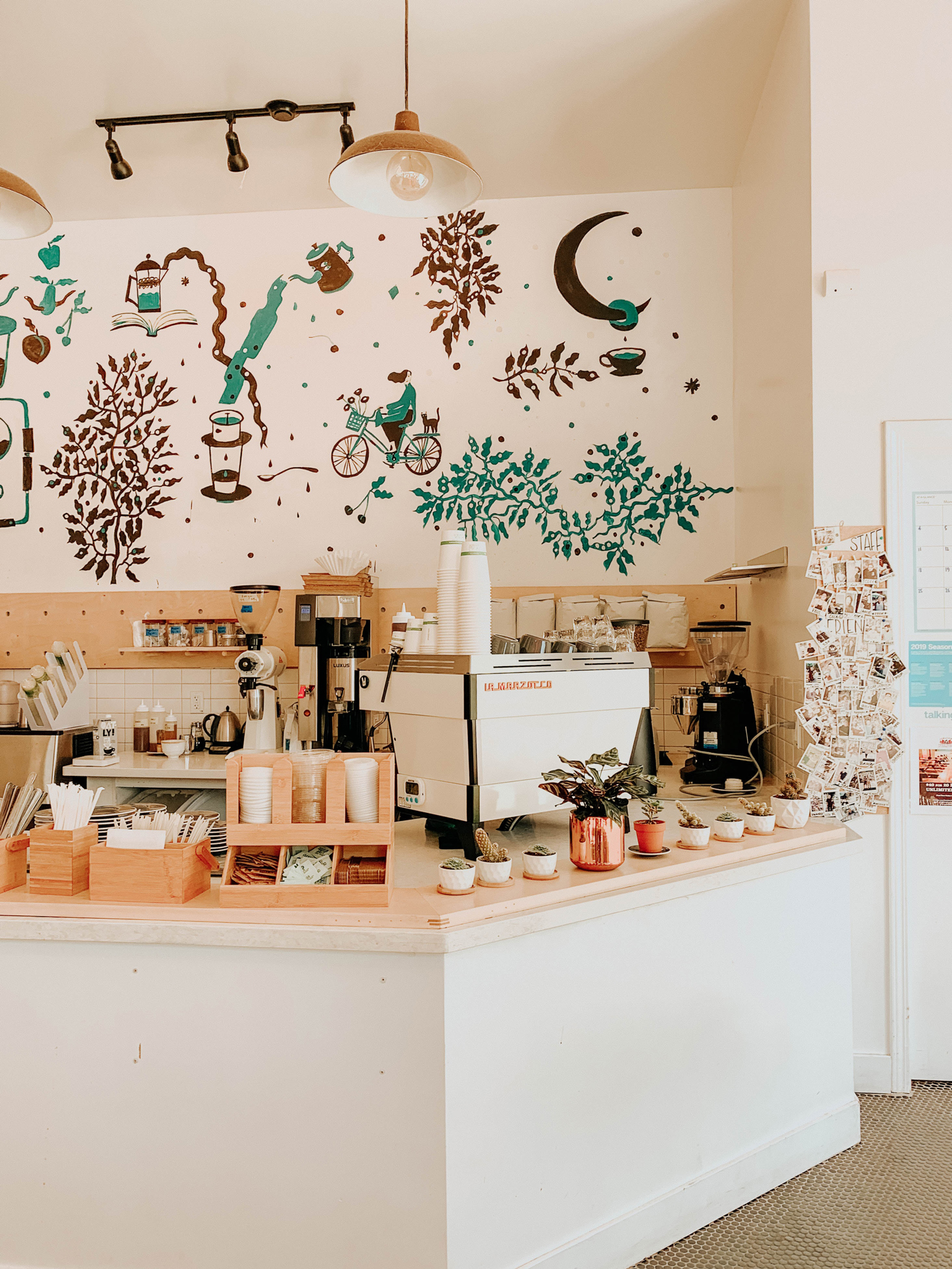
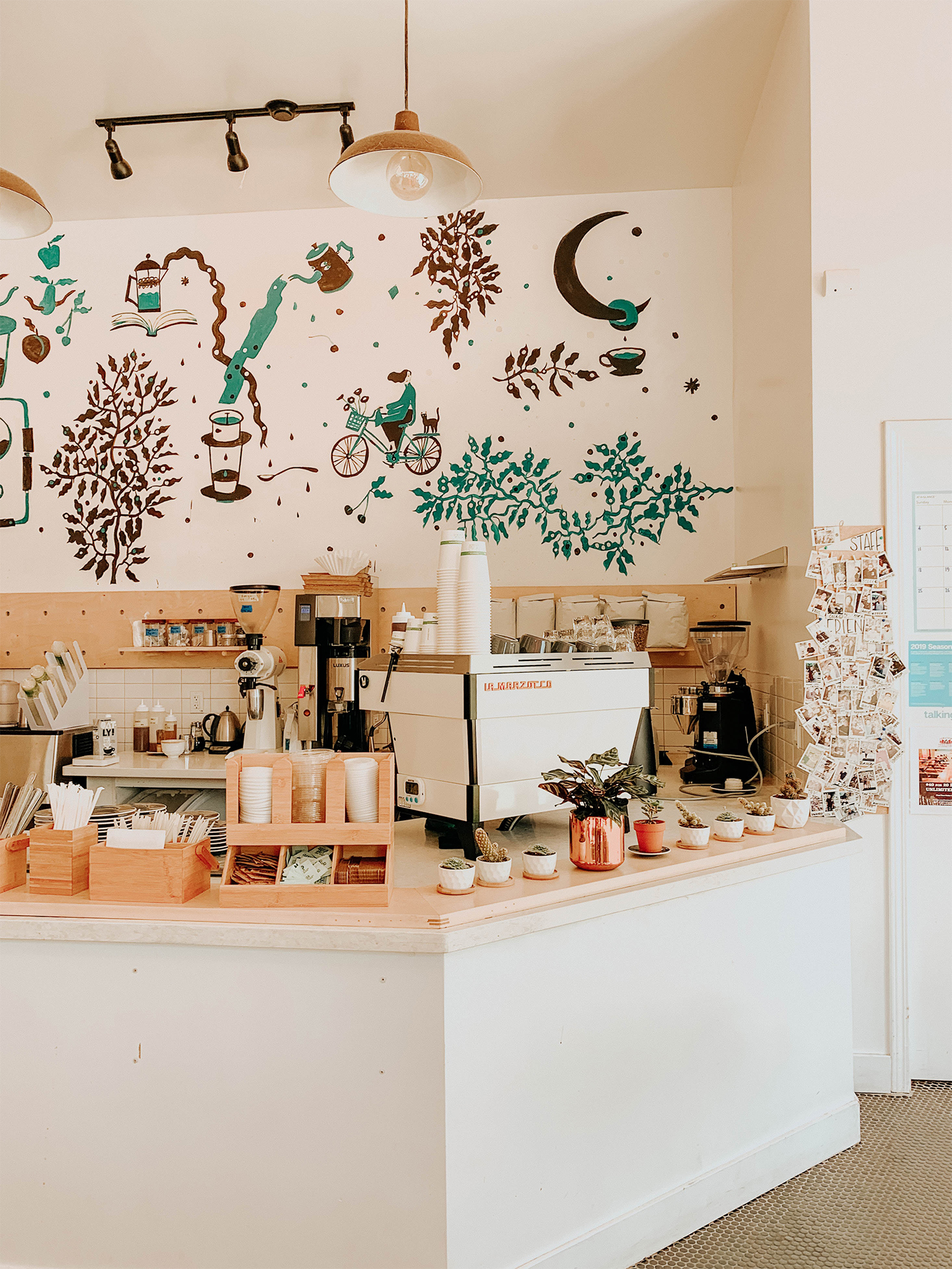
💄 Fix mainVisual file

diff --git a/src/pages/demoCafe.tsx b/src/pages/demoCafe.tsx
@@ -88,7 +88,7 @@ export default function DemoCafe() {
         <section id="mainVisual" ref={areaTopRef}>
           <div className="mx-0 h-[100vh]">
             <img
-              // className="h-[100vh] w-auto object-cover"
+              className="h-[100vh] w-auto object-cover"
               src="/DemoSite/imgDemoCafeMainVisual.jpg"
               alt="mainVisual"
               width="1440"
